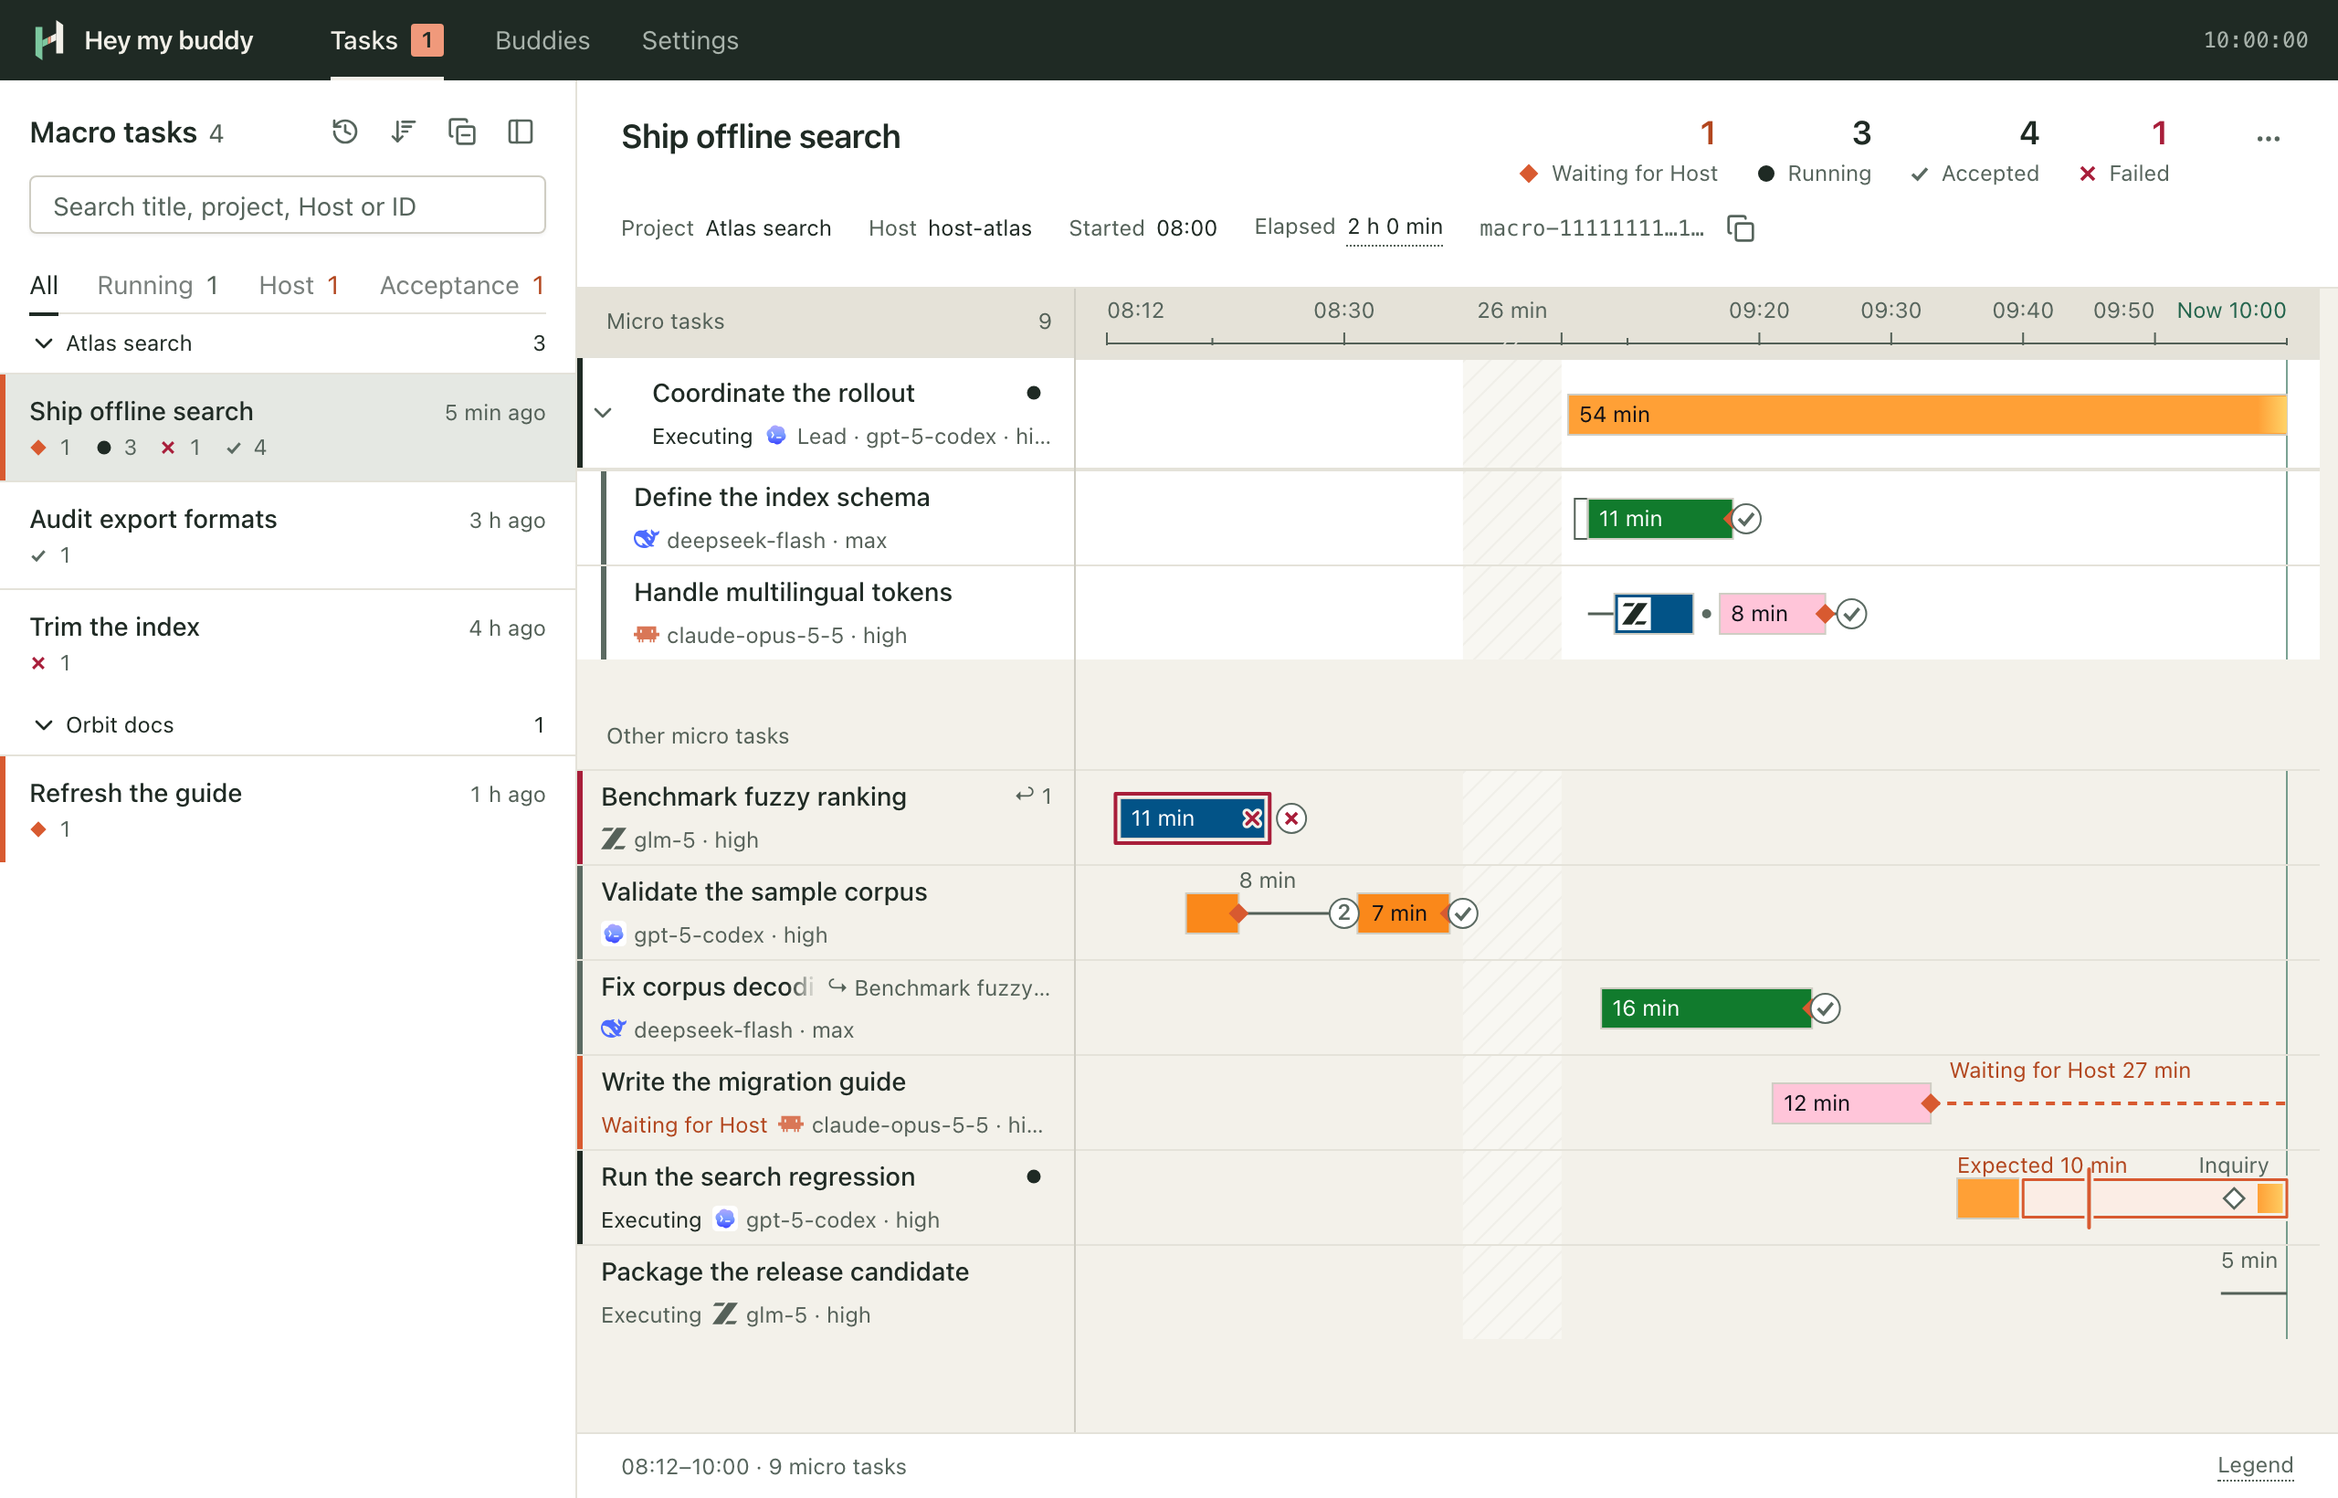
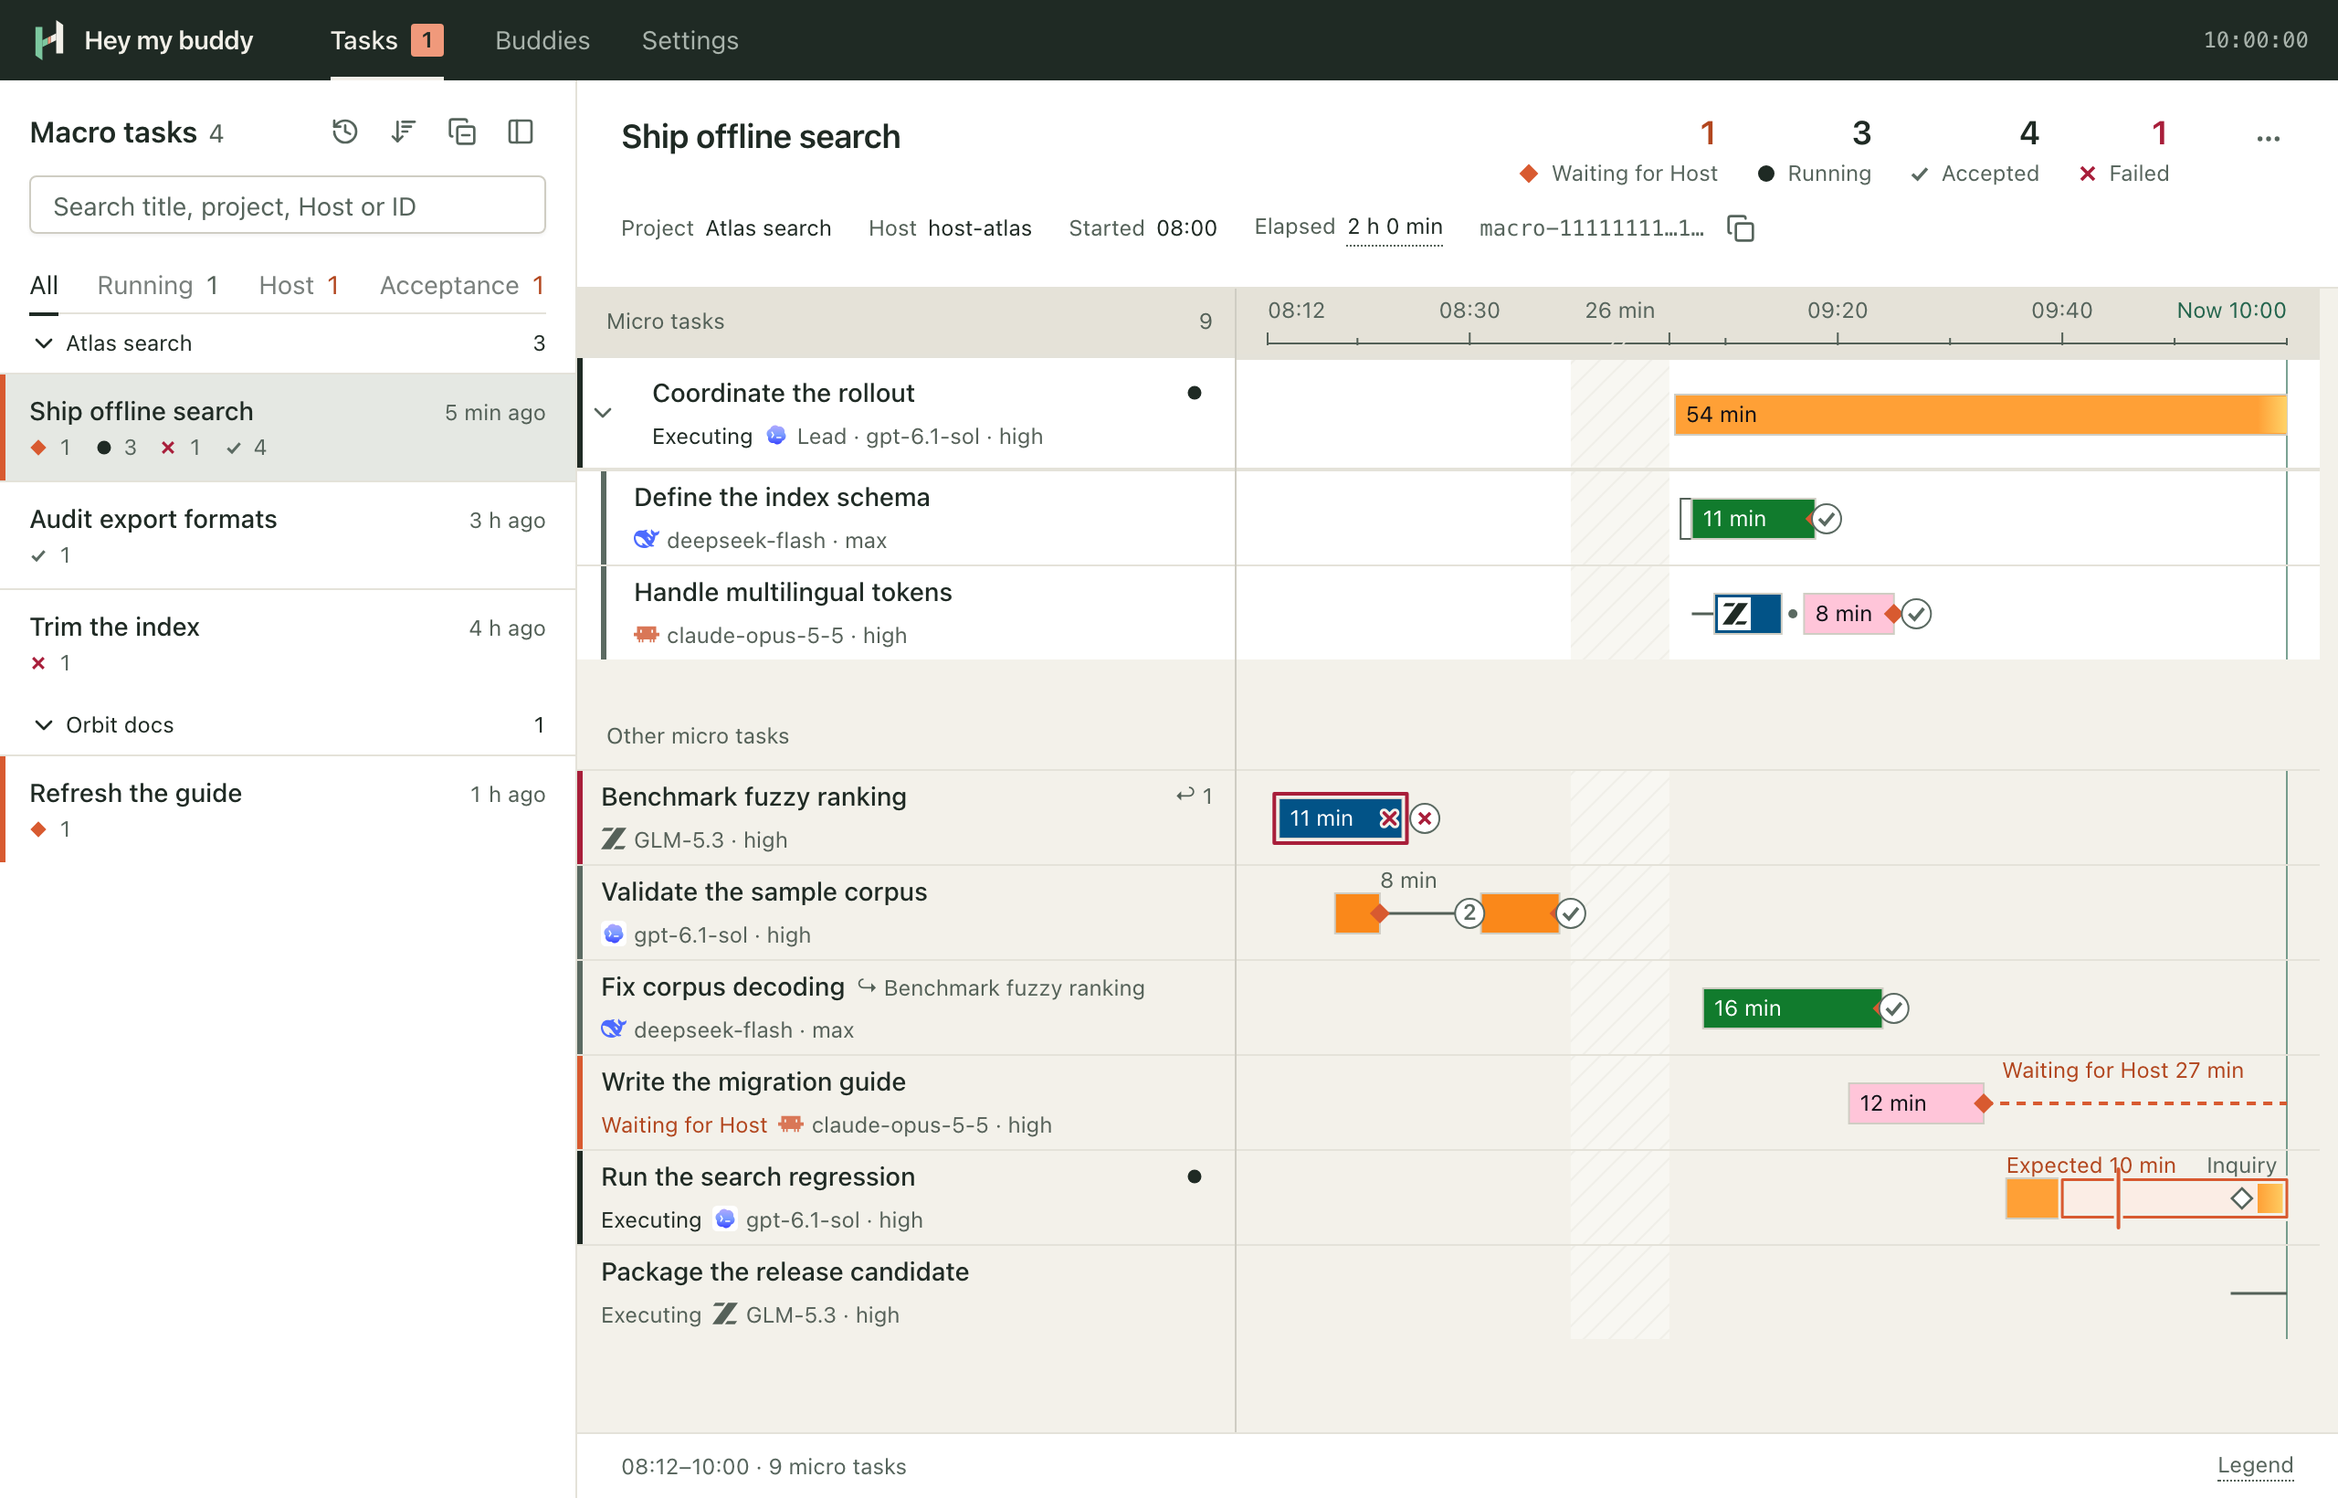
ws-43c3208b17a5c3af633dc199f20bae4a output 64e26236745ff78d970f973789317966bd0e76c4c0829d1dcbd9a72208d44da3

diff --git a/apps/console/browser/readme.shot.ts b/apps/console/browser/readme.shot.ts
@@ -41,6 +41,10 @@ for (const language of ["en", "zh"] as const) {
       test(`${theme} real console timeline`, async ({ page }) => {
         await page.clock.setFixedTime(new Date("2026-09-27T10:00:00.000Z"));
         await page.addInitScript(value => localStorage.setItem("hey-my-buddy.console.theme", value), theme);
+        // A name column the user dragged wider, stored as the product stores it:
+        // the row's second line (state · buddy · effort) needs more than the
+        // default 272 px once model names are written in full.
+        await page.addInitScript(() => localStorage.setItem("hey-my-buddy.console.view.timeline-name-width", "360"));
         const reading = page.waitForResponse(response => new URL(response.url()).pathname === `/api/macro-tasks/${macro}/timeline`);
         await open(page, `${baseURL}#tasks/${macro}`);
         const timeline = await (await reading).json();
@@ -73,6 +77,13 @@ for (const language of ["en", "zh"] as const) {
         await expectNoSidewaysScroll(page);
         await page.evaluate(() => document.fonts.ready);
         await settle(page);
+        // The capture shows every row fully: no title, fix tag or second line
+        // may be clipped in the name column.
+        const clipped = await page.locator("[data-slot=timeline-row-name]:visible").evaluateAll(
+          cells => cells.flatMap(cell => Array.from(cell.querySelectorAll<HTMLElement>("span")))
+            .filter(span => span.clientWidth > 0 && span.scrollWidth > span.clientWidth + 1)
+            .map(span => span.textContent));
+        expect(clipped).toEqual([]);
         // Move the pointer off the content as a user would; leave every element
         // and every product animation intact. Capture only after paints settle.
         await page.mouse.move(0, 0);

diff --git a/tests/probes/readme_console_scene.py b/tests/probes/readme_console_scene.py
@@ -9,6 +9,12 @@ def configure(p: ModuleType, language: str) -> None:
     def text(en: str, zh: str) -> str:
         return zh if language == "zh" else en
 
+    # This showcase carries its own current-model set; the other scenarios
+    # keep sharing the preview's CFG_* buddies.
+    codex = {"harness": "codex", "provider": "openai", "model": "gpt-6.1-sol", "effort": "high"}
+    glm = {"harness": "zcode", "provider": "zai", "model": "glm-5.3", "effort": "high"}
+    flash = {"harness": "dsh", "provider": "deepseek-official", "model": "deepseek-flash", "effort": "max"}
+    claude = {"harness": "claude", "provider": "anthropic", "model": "claude-opus-5-5", "effort": "high"}
     p.HOST_A = "host-atlas"
     p.COOLING_UNTIL = p.instant(10, 30)
     p.PROJECTS = {
@@ -75,10 +81,10 @@ def configure(p: ModuleType, language: str) -> None:
                 attempt_id=latest["attemptId"], integration_id=integration["integrationId"]),
         ]
 
-    lead = task(lead_id, "Coordinate the rollout", "协调功能交付", p.instant(9, 5), buddy=p.CFG_CODEX,
+    lead = task(lead_id, "Coordinate the rollout", "协调功能交付", p.instant(9, 5), buddy=codex,
                 state="executing", status="running", category="active", delegation_authority=True,
                 shutdown_confirmed=False)
-    execution(lead, p.instant(9, 5, 30), None, p.CFG_CODEX)
+    execution(lead, p.instant(9, 5, 30), None, codex)
     lead["expectedSeconds"] = 7200
     lead["attempts"][0]["expectedSeconds"] = 7200
     lead["activity"] = {"phase": "thinking", "observedAt": p.instant(9, 59), "eventSeq": 50,
@@ -87,23 +93,23 @@ def configure(p: ModuleType, language: str) -> None:
     dispatch(lead)
 
     schema = task("readme-schema", "Define the index schema", "定义索引结构", p.instant(9, 6),
-                  buddy=p.CFG_FLASH, owner=True)
+                  buddy=flash, owner=True)
     dispatch(schema, lead_actor)
-    decision = p.routing("readme-route-schema", "readme-router", "completed", p.CFG_FLASH,
+    decision = p.routing("readme-route-schema", "readme-router", "completed", flash,
                          text("Select a buddy for the index schema.", "为索引结构选择 buddy。"), {},
                          attempt_id="att-readme-router", mode="fast", elapsed_ms=60000, tool_calls=0)
     schema["routing"] = decision
     schema["spans"] += [p.span("routing:att-readme-router", "routing", p.instant(9, 6), p.instant(9, 7),
                               "finished", attempt_id="att-readme-router", confirmed=True,
                               disposition="completed", decision_task="readme-router", routing_record=decision)]
-    execution(schema, p.instant(9, 7), p.instant(9, 18), p.CFG_FLASH)
+    execution(schema, p.instant(9, 7), p.instant(9, 18), flash)
     accept(schema, p.instant(9, 19), lead_actor)
 
     tokenizer = task("readme-tokenizer", "Handle multilingual tokens", "处理多语言分词", p.instant(9, 7),
-                     buddy=p.CFG_CLAUDE, owner=True, continuation_count=1, result=True)
+                     buddy=claude, owner=True, continuation_count=1, result=True)
     dispatch(tokenizer, lead_actor)
     tokenizer["spans"].append(p.span("queue:readme-tokenizer", "queue", p.instant(9, 7), p.instant(9, 9), "admitted"))
-    first = execution(tokenizer, p.instant(9, 9), p.instant(9, 15), p.CFG_GLM)
+    first = execution(tokenizer, p.instant(9, 9), p.instant(9, 15), glm)
     original = p.artifact("readme-tokenizer-v1", first, p.digest("tokenizer-v1")[:40],
                           "~/artifacts/tokenizer-v1.diff", ["src/tokenizer.py"])
     tokenizer["artifacts"].append(original)
@@ -112,7 +118,7 @@ def configure(p: ModuleType, language: str) -> None:
     tokenizer["markers"].append(p.marker(p.instant(9, 16), "reject", actor=lead_actor,
         eventKind="workflow.review_rejected", artifact_id=original["artifactId"], attempt_id=first,
         verdict="rejected", note=text("Include mixed-script words.", "补上混合文字的分词。")))
-    second = execution(tokenizer, p.instant(9, 17), p.instant(9, 25), p.CFG_CLAUDE)
+    second = execution(tokenizer, p.instant(9, 17), p.instant(9, 25), claude)
     tokenizer["artifacts"].append(p.artifact("readme-tokenizer-v2", second, p.digest("tokenizer-v2")[:40],
         "~/artifacts/tokenizer-v2.diff", ["src/tokenizer.py"]))
     tokenizer["continuations"].append(p.continuation("readme-tokenizer-next", second,
@@ -123,23 +129,23 @@ def configure(p: ModuleType, language: str) -> None:
     accept(tokenizer, p.instant(9, 27), lead_actor)
 
     ranking = task("readme-ranking", "Benchmark fuzzy ranking", "评测容错排序", p.instant(8, 12),
-                   buddy=p.CFG_GLM, state="concluded", status="concluded", category="ended", result=True)
+                   buddy=glm, state="concluded", status="concluded", category="ended", result=True)
     dispatch(ranking)
     failure = text("The sample corpus could not be decoded.", "样例语料解码失败。")
-    aid = execution(ranking, p.instant(8, 13), p.instant(8, 24), p.CFG_GLM, error=failure)
+    aid = execution(ranking, p.instant(8, 13), p.instant(8, 24), glm, error=failure)
     ranking["hostConclusion"] = p.host_conclusion("readme-ranking-conclusion", attempt_id=aid,
         execution_status="failed", note=failure, artifact_id=None, actor=host, created_at=p.instant(8, 26), run_revision=3)
     ranking["updatedAt"] = p.instant(8, 26)
     ranking["markers"].append(p.marker(p.instant(8, 26), "conclude", actor=host, attempt_id=aid))
 
     samples = task("readme-samples", "Validate the sample corpus", "核对样例语料", p.instant(8, 17),
-                   buddy=p.CFG_CODEX, result=True, continuation_count=1)
+                   buddy=codex, result=True, continuation_count=1)
     dispatch(samples)
-    execution(samples, p.instant(8, 18), p.instant(8, 22), p.CFG_CODEX, disposition="assistance")
+    execution(samples, p.instant(8, 18), p.instant(8, 22), codex, disposition="assistance")
     samples["spans"].append(p.span("host:readme-corpus", "host", p.instant(8, 22), p.instant(8, 30),
         "approved", request_id="readme-corpus", request_kind="assistance",
         summary=text("Confirm the public sample licence.", "确认公开样例的许可。")))
-    aid = execution(samples, p.instant(8, 31), p.instant(8, 38), p.CFG_CODEX)
+    aid = execution(samples, p.instant(8, 31), p.instant(8, 38), codex)
     samples["continuations"].append(p.continuation("readme-corpus-next", aid,
         text("Use the public CC0 corpus.", "使用公开的 CC0 语料。"), request_id="readme-corpus", created=p.instant(8, 30)))
     samples["markers"] += [p.marker(p.instant(8, 30), "decide", actor=host, request_id="readme-corpus", decision="approve"),
@@ -147,18 +153,18 @@ def configure(p: ModuleType, language: str) -> None:
     accept(samples, p.instant(8, 39))
 
     fix = task("readme-corpus-fix", "Fix corpus decoding", "修正语料解码", p.instant(9, 7),
-               buddy=p.CFG_FLASH, result=True)
+               buddy=flash, result=True)
     dispatch(fix)
-    aid = execution(fix, p.instant(9, 8), p.instant(9, 24), p.CFG_FLASH)
+    aid = execution(fix, p.instant(9, 8), p.instant(9, 24), flash)
     art = p.artifact("readme-corpus-output", aid, p.digest("corpus-output")[:40],
                      "~/artifacts/corpus.diff", ["src/corpus.py"])
     fix["artifacts"].append(art)
     accept(fix, p.instant(9, 25))
 
     docs = task("readme-guide", "Write the migration guide", "编写迁移指南", p.instant(9, 20),
-                buddy=p.CFG_CLAUDE, state="awaiting-host", category="host", result=True)
+                buddy=claude, state="awaiting-host", category="host", result=True)
     dispatch(docs)
-    execution(docs, p.instant(9, 21), p.instant(9, 33), p.CFG_CLAUDE, disposition="assistance")
+    execution(docs, p.instant(9, 21), p.instant(9, 33), claude, disposition="assistance")
     question = text("Confirm the default index location.", "确认默认的索引位置。")
     docs["activeRequest"] = {**p.ACTIVE_REQUEST, "requestId": "readme-guide-location", "createdAt": p.instant(9, 33),
         "summary": question, "attempted": text("Checked the configuration examples.", "已核对配置示例。"),
@@ -167,9 +173,9 @@ def configure(p: ModuleType, language: str) -> None:
         request_id="readme-guide-location", request_kind="assistance", summary=question))
 
     live = task("preview-run-a3", "Run the search regression", "运行搜索回归", p.instant(9, 34),
-                buddy=p.CFG_CODEX, state="executing", status="running", category="active", shutdown_confirmed=False)
+                buddy=codex, state="executing", status="running", category="active", shutdown_confirmed=False)
     dispatch(live)
-    aid = execution(live, p.instant(9, 35), None, p.CFG_CODEX)
+    aid = execution(live, p.instant(9, 35), None, codex)
     live["expectedSeconds"] = 600
     live["attempts"][0]["expectedSeconds"] = 600
     live["activity"] = {"phase": "thinking", "observedAt": p.instant(9, 40), "eventSeq": 40,
@@ -180,16 +186,16 @@ def configure(p: ModuleType, language: str) -> None:
         created=p.instant(9, 56), state="delivered", delivered=p.instant(9, 56, 2)))
 
     queued = task("readme-package", "Package the release candidate", "打包发布候选", p.instant(9, 55),
-                  buddy=p.CFG_GLM, state="executing", status="queued", category="active")
+                  buddy=glm, state="executing", status="queued", category="active")
     dispatch(queued)
     queued["spans"].append(p.span("queue:readme-package", "queue", p.instant(9, 55), None, "queued"))
 
     router = p.run("readme-router", project="alpha", title=text("Choose the schema buddy", "选择索引结构 buddy"),
         title_source="title", task_text=decision["note"], created=p.instant(9, 6), updated=p.instant(9, 7),
-        state="finished", status="completed", category="ended", buddy=p.ROUTER_BUDDY,
+        state="finished", status="completed", category="ended", buddy=codex,
         parent=schema["runId"], group=p.MACRO_A, micro_task=False, adapter="decision", routing=decision,
         router_budget_seconds=60, attempts=[p.attempt("att-readme-router", 1, "finished", True,
-            p.instant(9, 6), p.instant(9, 7), p.ROUTER_BUDDY, result=p.decision_result(decision))])
+            p.instant(9, 6), p.instant(9, 7), codex, result=p.decision_result(decision))])
     rows.append(router)
     for group, en, zh, state, status, category, hour in [
         (p.MACRO_B, "Review the quickstart", "评审快速入门", "delivered", "completed", "review", 9),
@@ -198,9 +204,9 @@ def configure(p: ModuleType, language: str) -> None:
     ]:
         entry = p.run(f"readme-side-{hour}", project="beta" if group == p.MACRO_B else "alpha", group=group,
             title=text(en, zh), title_source="title", task_text=text(en, zh), created=p.instant(hour, 0),
-            updated=p.instant(hour, 20), state=state, status=status, category=category, buddy=p.CFG_FLASH,
+            updated=p.instant(hour, 20), state=state, status=status, category=category, buddy=flash,
             result=True, accepted=p.instant(hour, 21) if state == "accepted" else None)
-        execution(entry, p.instant(hour, 1), p.instant(hour, 20), p.CFG_FLASH,
+        execution(entry, p.instant(hour, 1), p.instant(hour, 20), flash,
                   error=text("Size budget exceeded.", "超出体积预算。") if state == "failed" else None)
         dispatch(entry)
         if state == "accepted":
